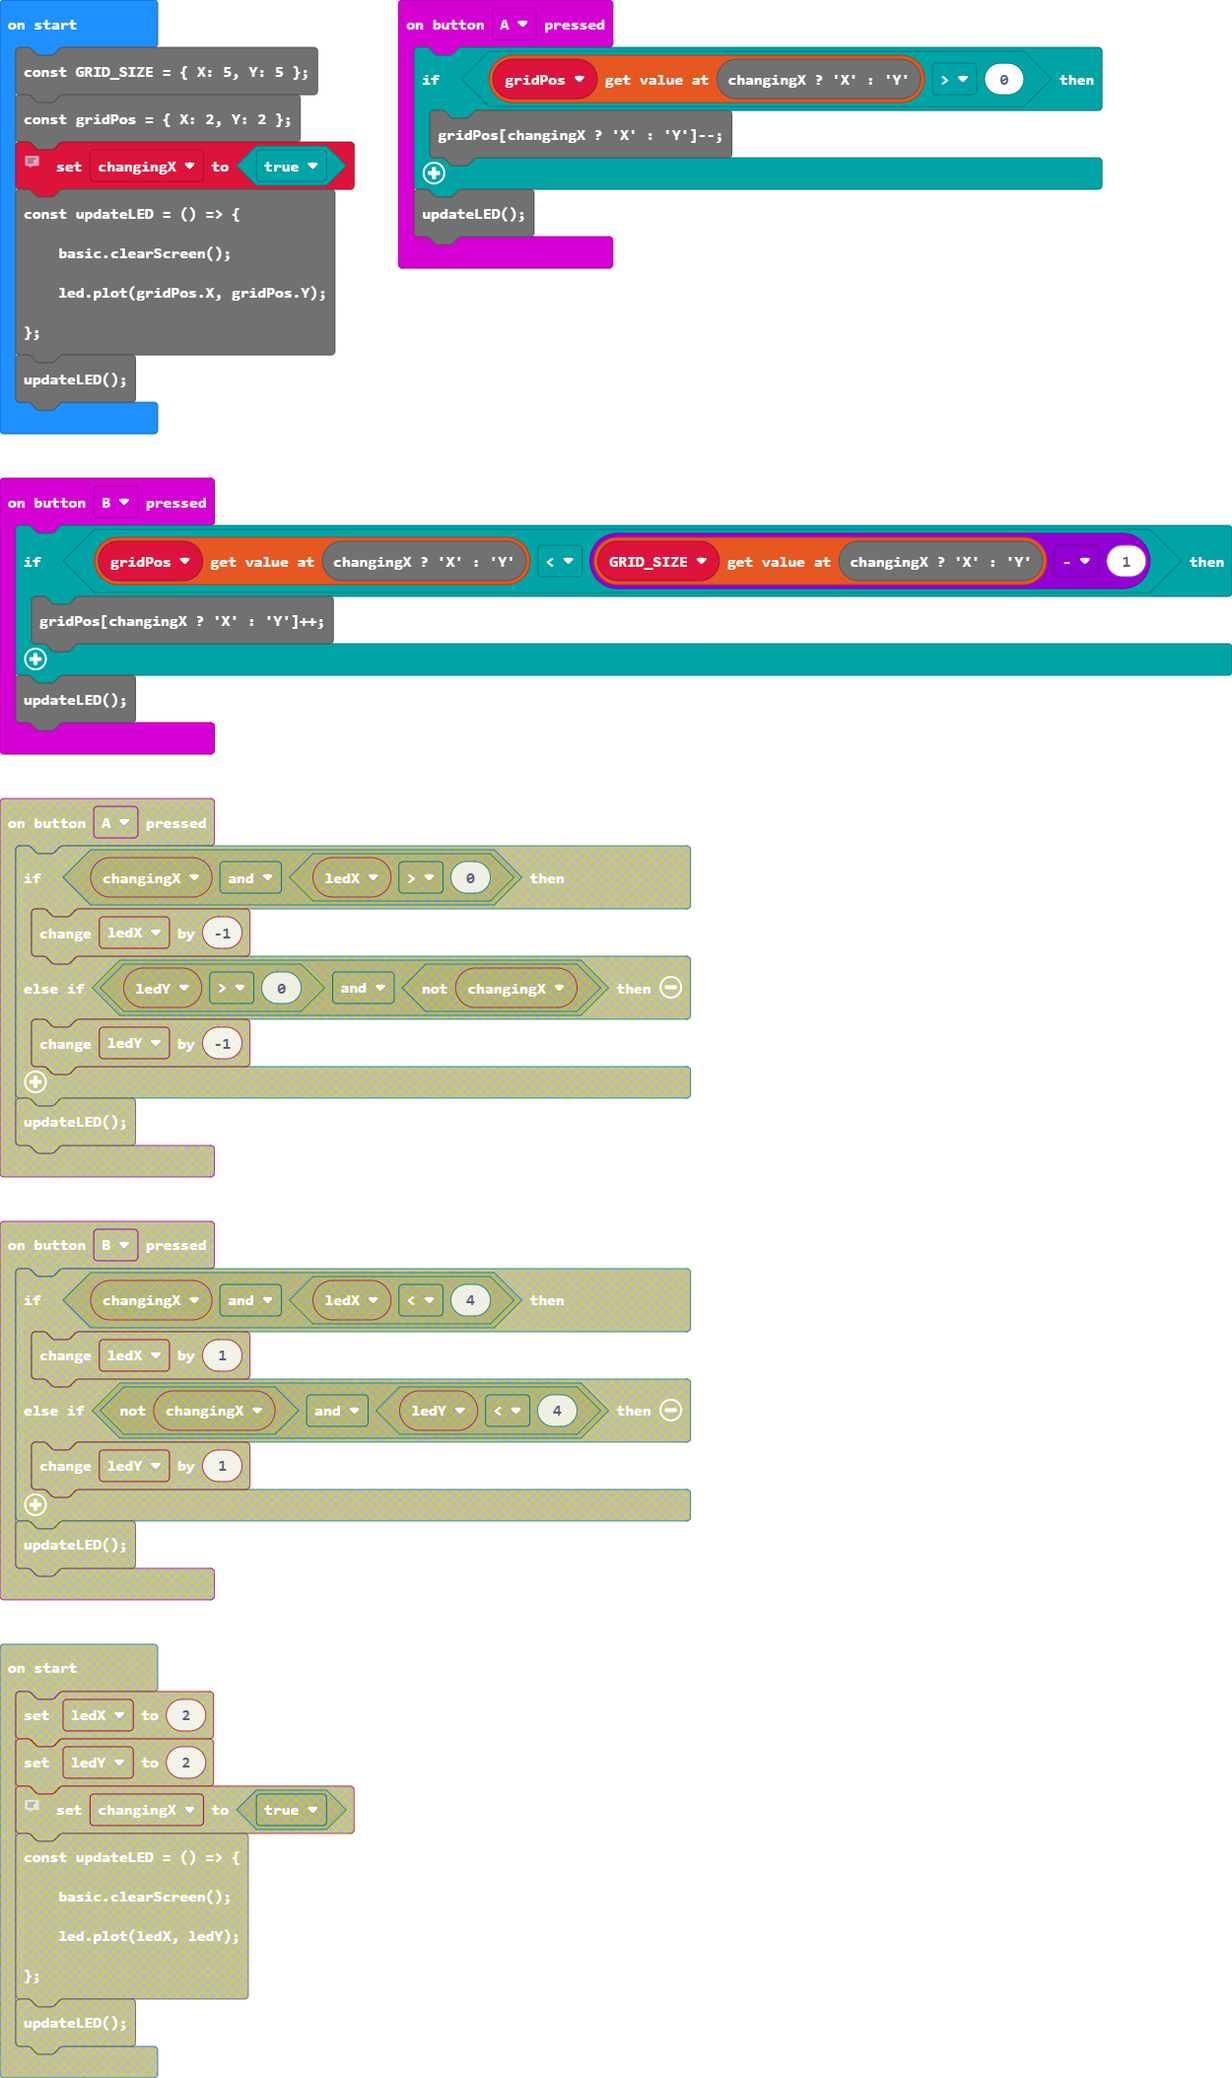
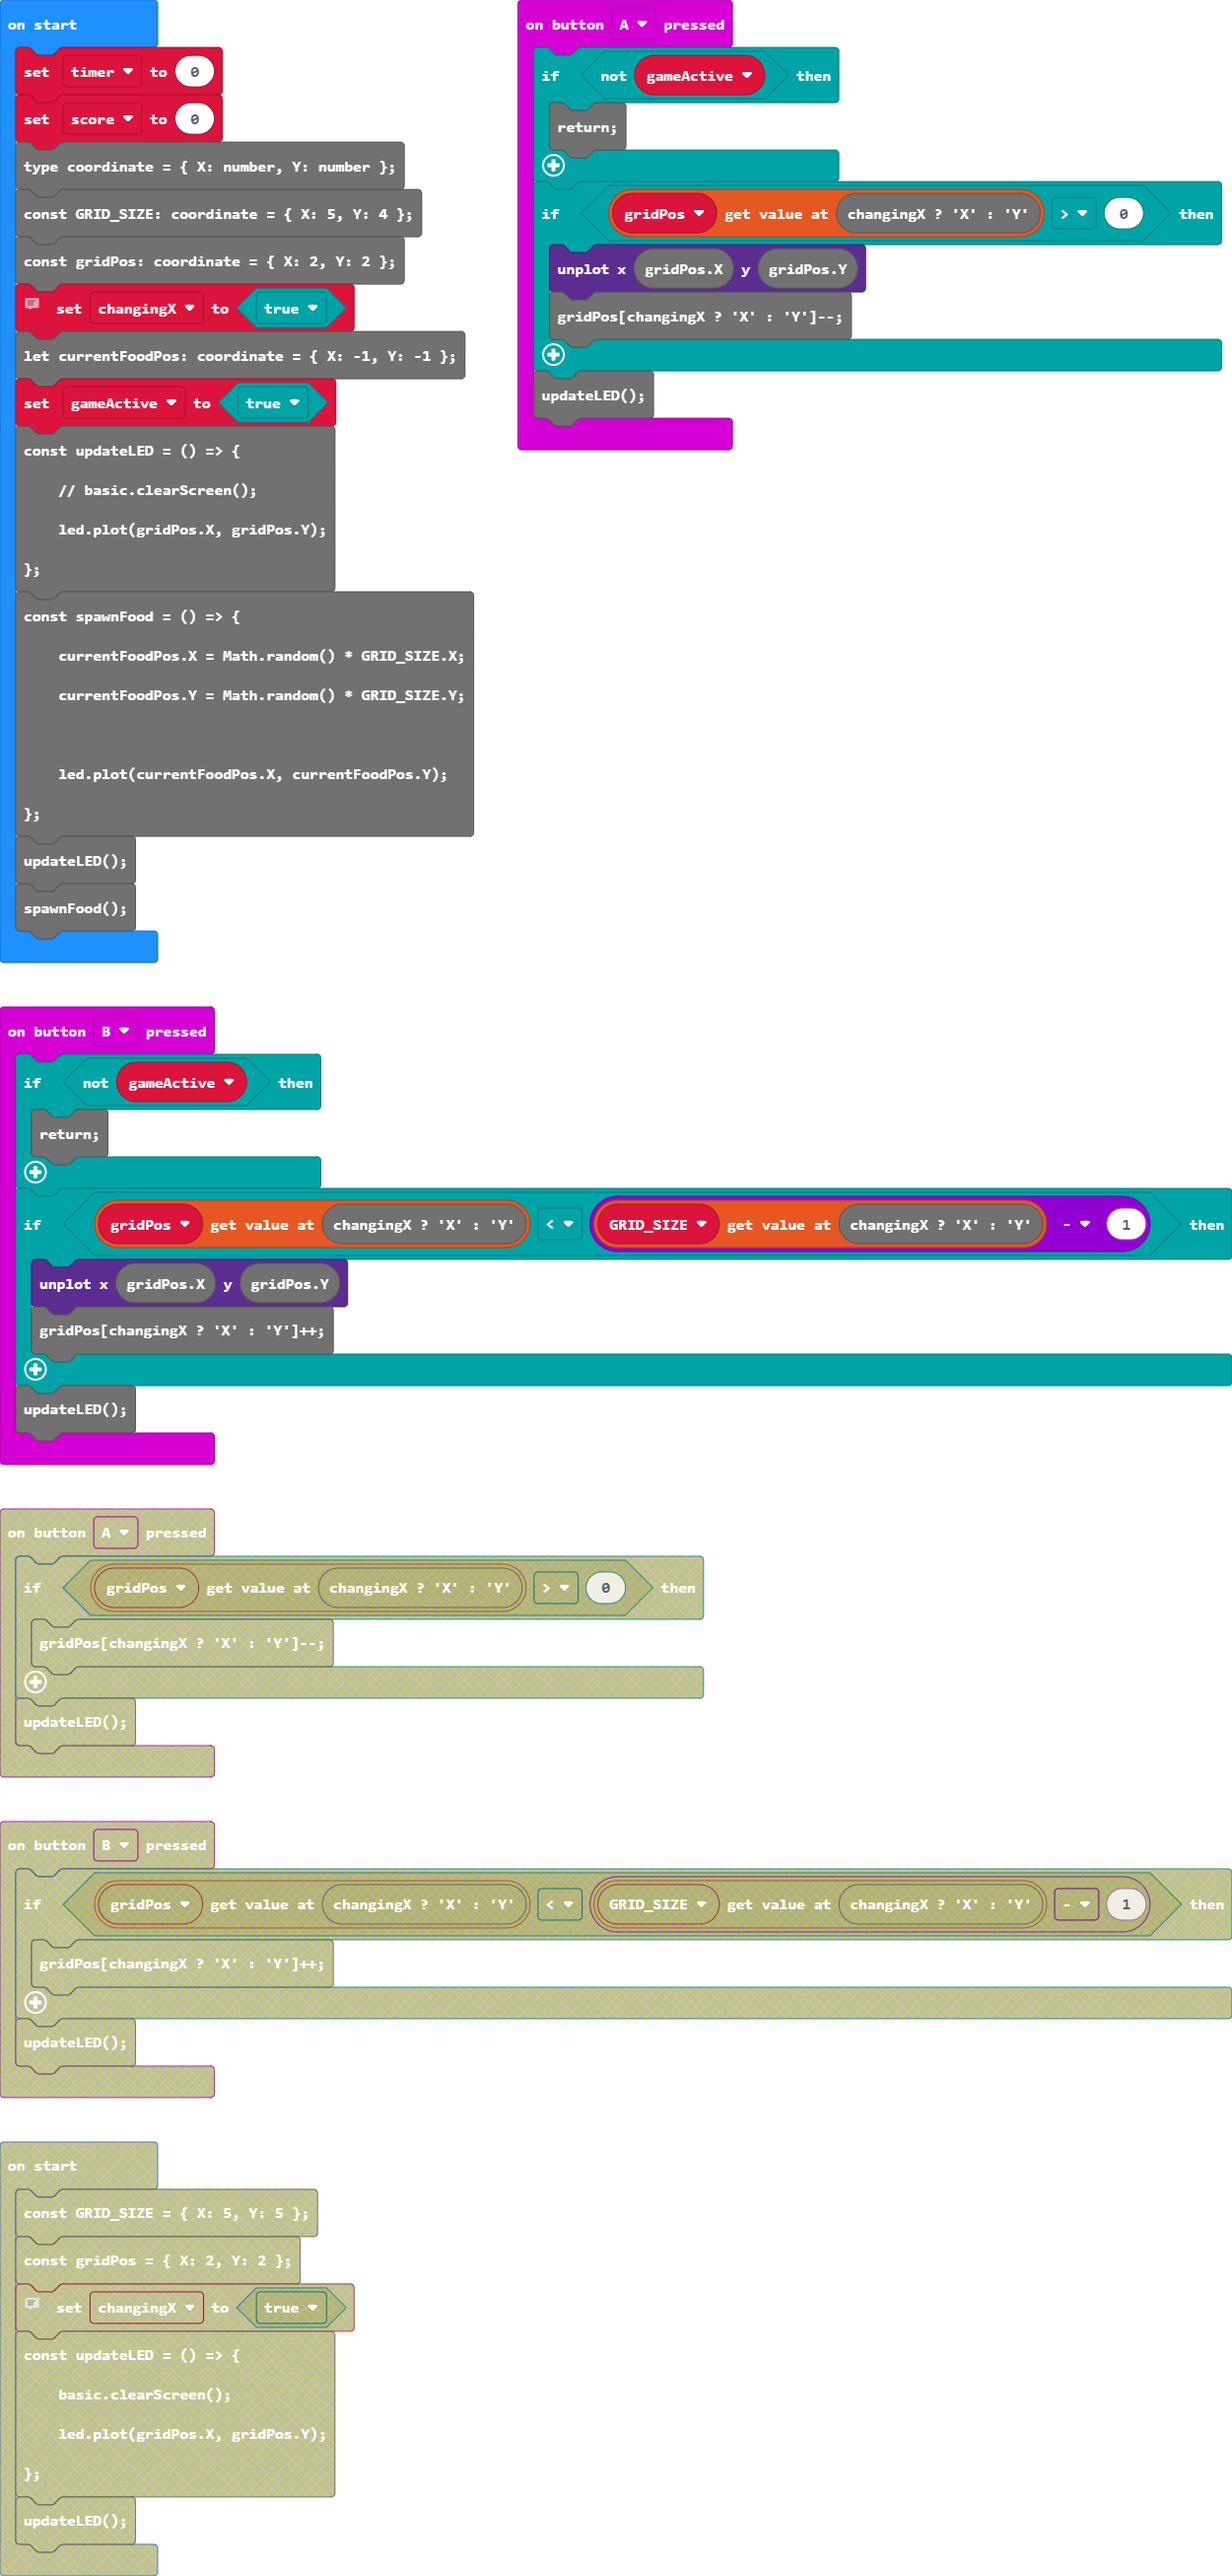
we do some formatting

diff --git a/main.ts b/main.ts
@@ -6,10 +6,11 @@ const gridPos: coordinate = { X: 2, Y: 2 };
 // x = true, y = false
 let changingX: boolean = true;
 
+let currentFoodPos: coordinate = { X: -1, Y: -1 };
 let score: number = 0;
 let timer: number = 0;
+let gameActive: boolean = true;
 
-let currentFoodPos: coordinate = { X: -1, Y: -1 };
 
 const updateLED = () => {
     // basic.clearScreen();
@@ -23,10 +24,9 @@ const spawnFood = () => {
     led.plot(currentFoodPos.X, currentFoodPos.Y);
 };
 
-updateLED();
-spawnFood();
-
 input.onButtonPressed(Button.A, () => {
+    if (!gameActive) return;
+
     if (gridPos[changingX ? 'X' : 'Y'] > 0) {
         led.unplot(gridPos.X, gridPos.Y);
         gridPos[changingX ? 'X' : 'Y']--;
@@ -35,6 +35,8 @@ input.onButtonPressed(Button.A, () => {
 });
 
 input.onButtonPressed(Button.B, () => {
+    if (!gameActive) return;
+
     if (gridPos[changingX ? 'X' : 'Y'] < GRID_SIZE[changingX ? 'X' : 'Y'] - 1) {
         led.unplot(gridPos.X, gridPos.Y);
         gridPos[changingX ? 'X' : 'Y']++;
@@ -45,3 +47,6 @@ input.onButtonPressed(Button.B, () => {
 input.onLogoEvent(TouchButtonEvent.Pressed, () => {
     changingX = !changingX;
 });
+
+updateLED();
+spawnFood();
